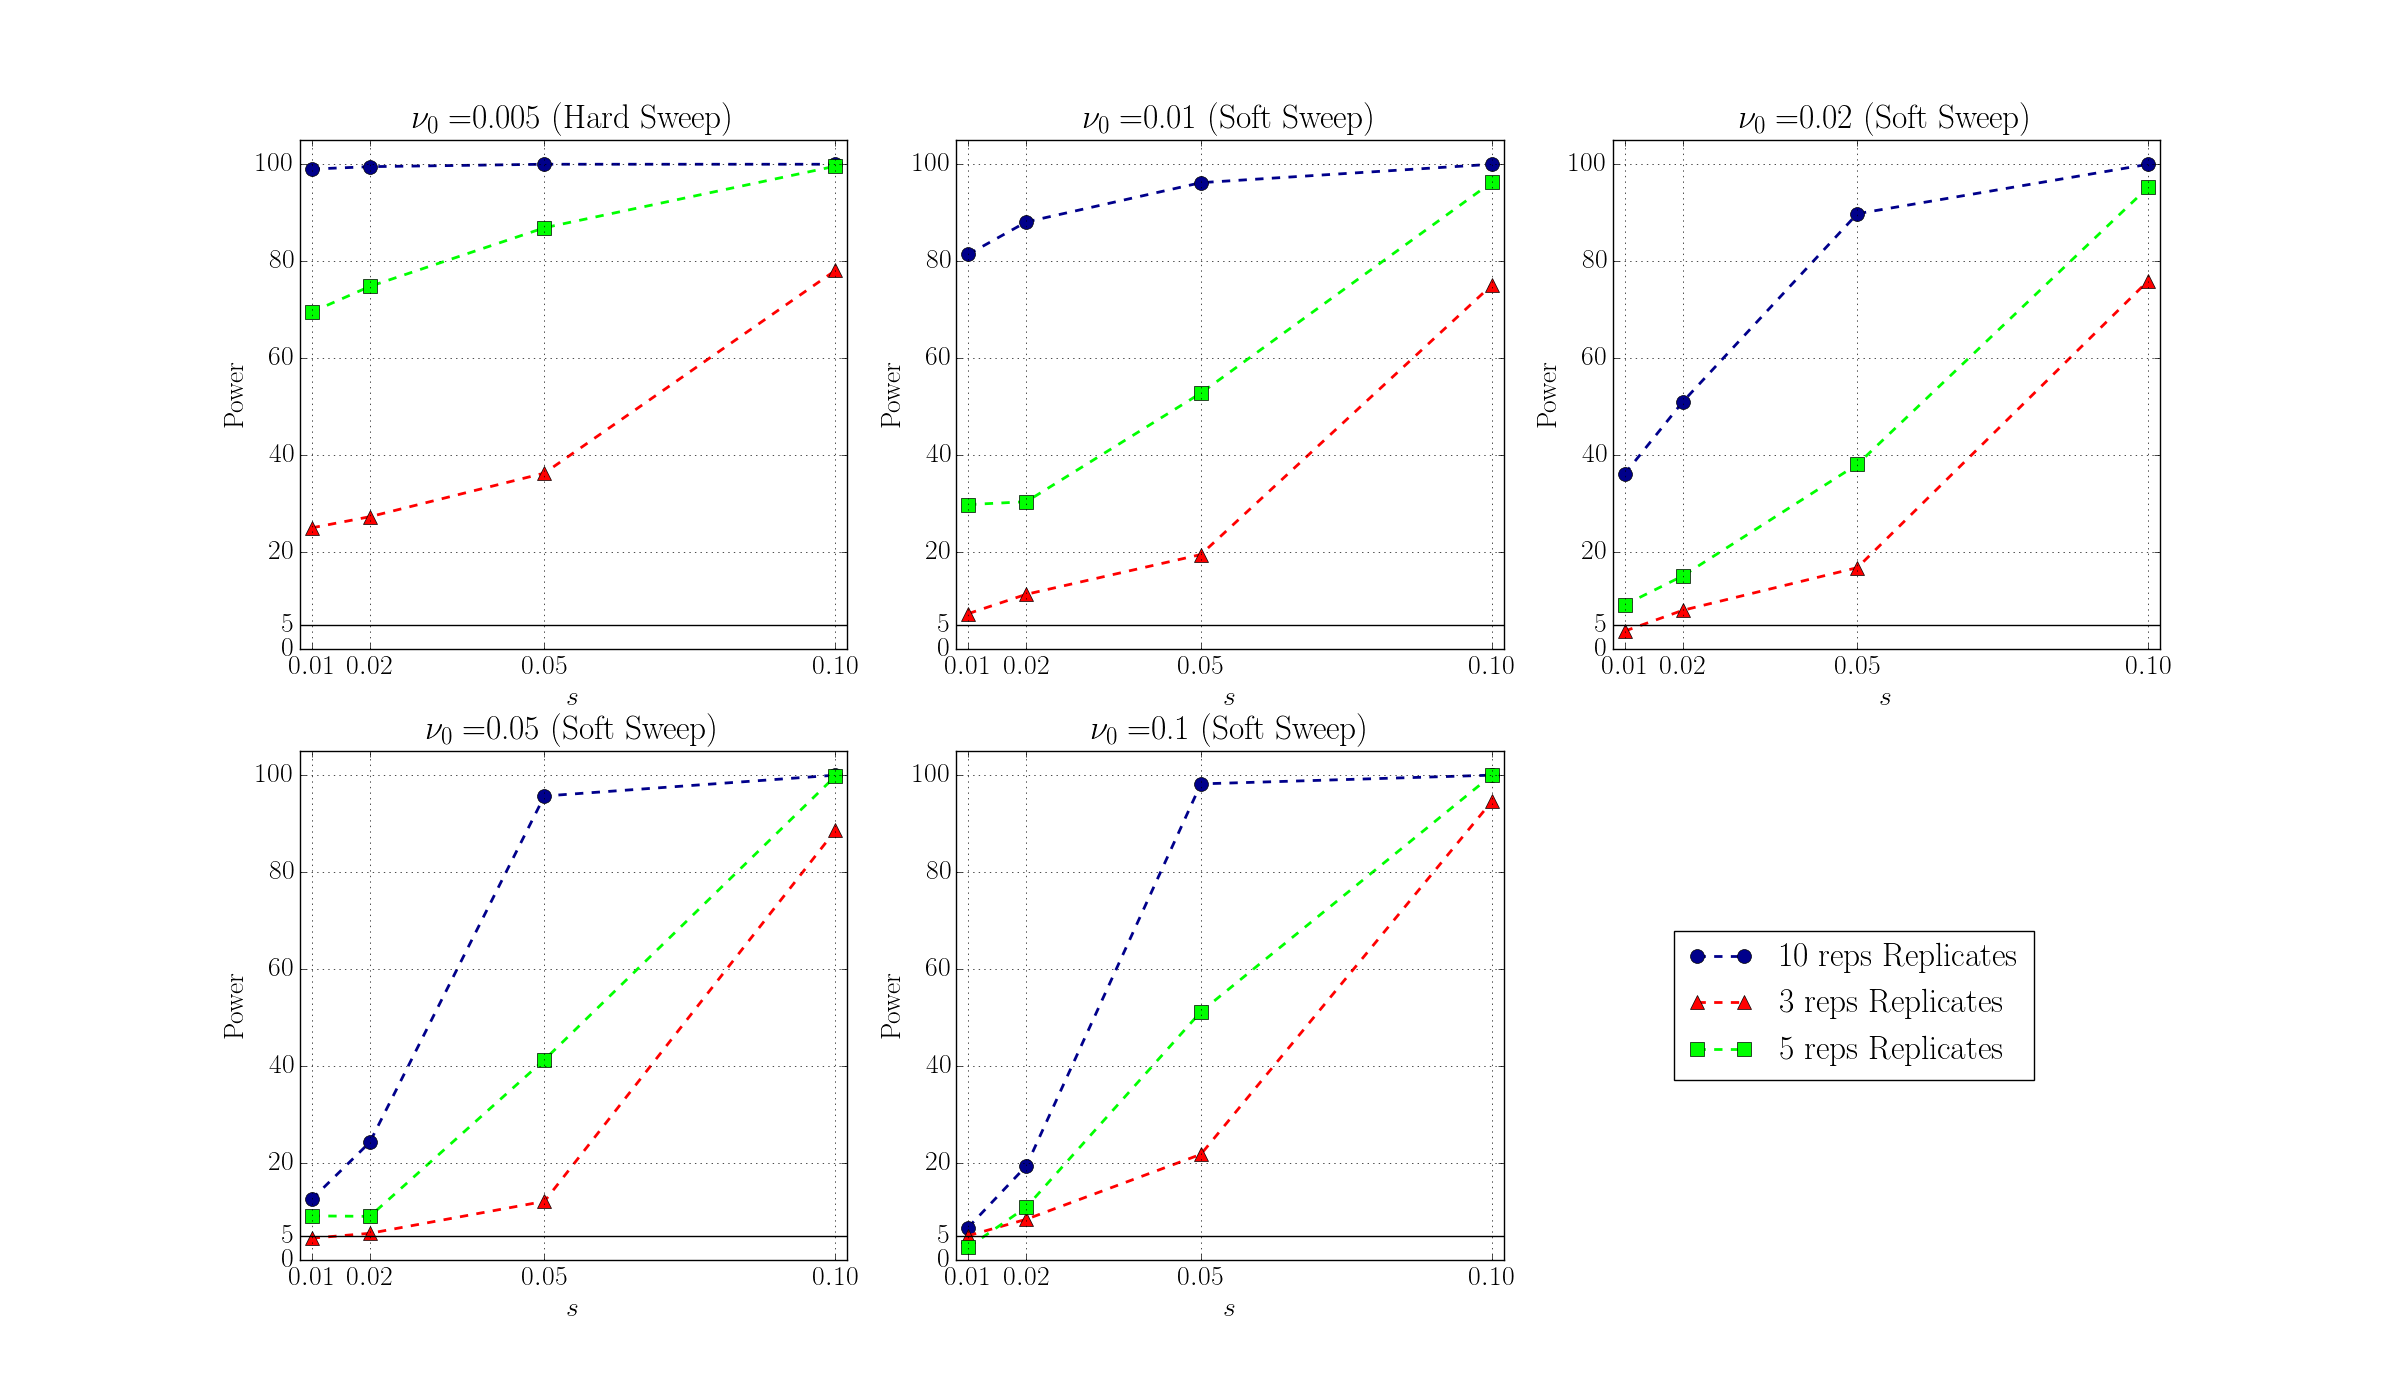
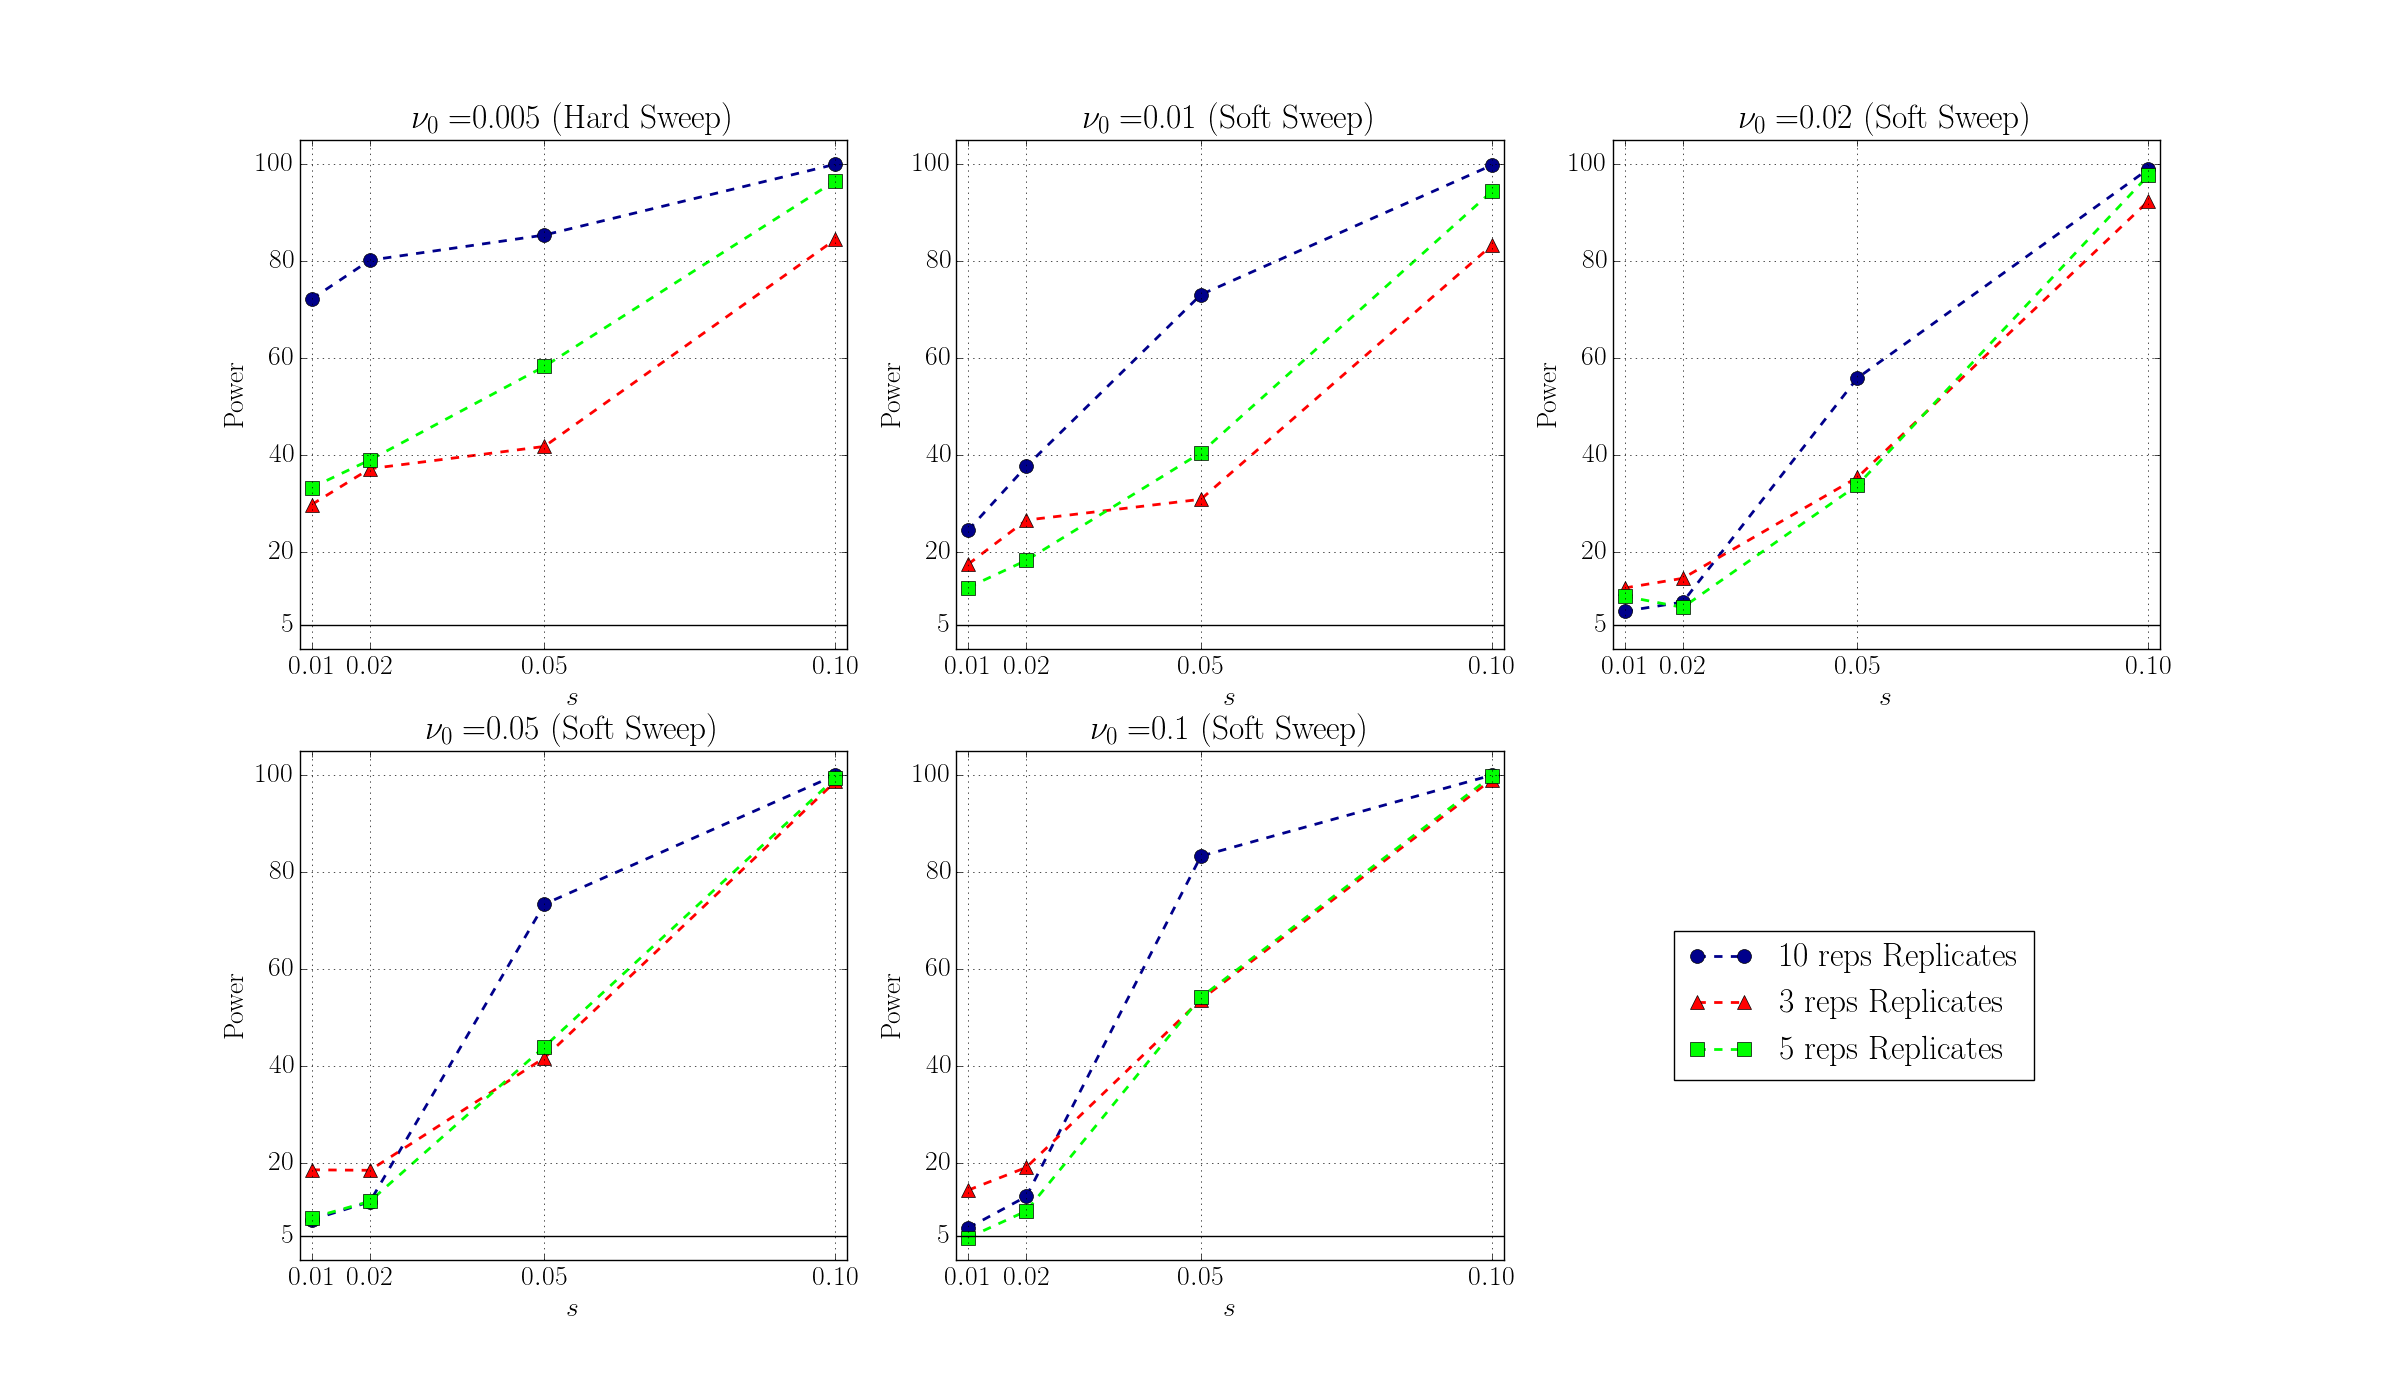
null dist for s

diff --git a/main.tex b/main.tex
@@ -395,7 +395,11 @@ clip,width=\textwidth]{powerReplicateTime}
 \subsection{Locating Selection}
 
 \subsection{Strength of  Selection}
-
+\begin{figure}
+	\centering
+	\includegraphics[trim=2.2in 0 2.2in 0, 
+	clip,width=\textwidth]{bias}
+\end{figure}
 
 \section{Materials and Methods}
 
@@ -609,6 +613,12 @@ cite
 Strength of Selection Pressure Is an Important Parameter Contributing to the 
 Complexity of Antibiotic Resistance Evolution
 
+
+Also let $\Phi_D$ and $\Phi_A$  be CDF of Null and Alternative distribution, 
+respectively, then we have
+\beq
+POWER= \pr_A(s>\Phi_D^{-1}(0.9))=((1-\Phi_A(\Phi_D^{-1}(0.9)))-0.1)\times100
+\eeq
 \newpage
 \subsection{Likelihood Ratio Test}
 Using the MLE (and other) estimates of $s$ it is desirable to perform a 
